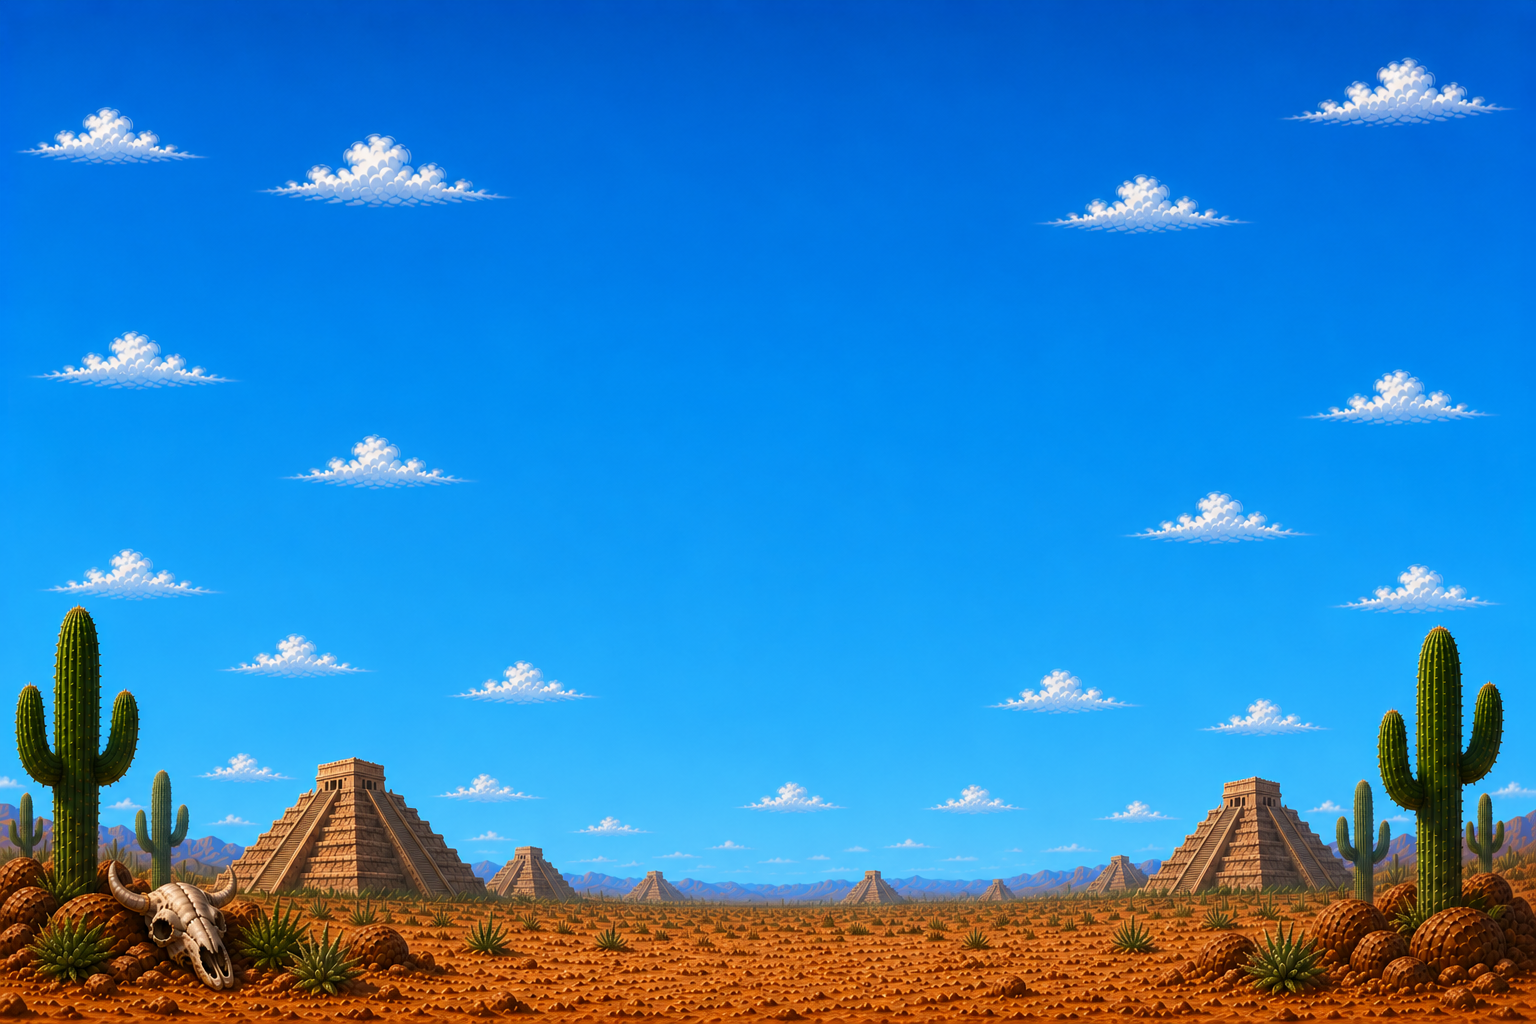
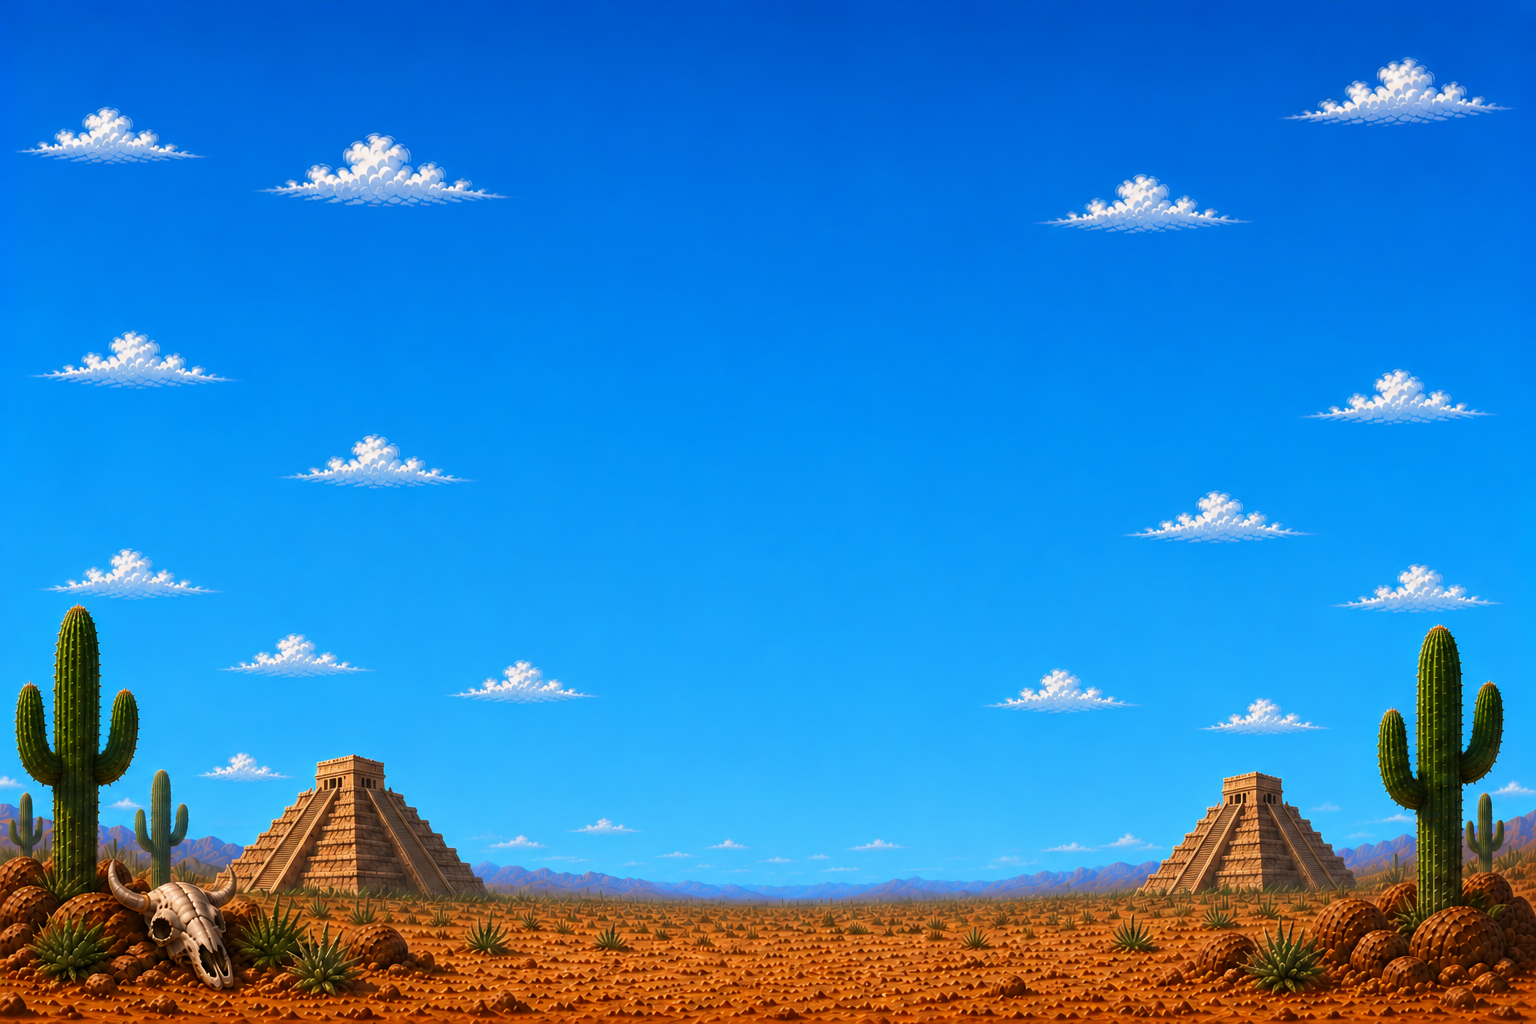
Game Over Screen added

diff --git a/javascript/levels/level1.js b/javascript/levels/level1.js
@@ -1,54 +1,75 @@
-const level1 = new Level(
-  [new Chicken(), new Chicken(), new Chicken(), new Smallchicken(), new Smallchicken(), new Smallchicken(), new Endboss()],
-  [
-    new Cloud(250, 0),
-    new Cloud(650, 1),
-    new Cloud(1050, 0),
-    new Cloud(1450, 1),
-    new Cloud(1850, 0),
-    new Cloud(2250, 0),
-    new Cloud(2650, 0),
-  ],
-  [
-    new BackgroundObject("img/5_background/layers/air.png", -720),
-    new BackgroundObject("img/5_background/layers/3_third_layer/2.png", -720),
-    new BackgroundObject("img/5_background/layers/2_second_layer/2.png", -720),
-    new BackgroundObject("img/5_background/layers/1_first_layer/2.png", -720),
-    new BackgroundObject("img/5_background/layers/air.png", 0),
-    new BackgroundObject("img/5_background/layers/3_third_layer/1.png", 0),
-    new BackgroundObject("img/5_background/layers/2_second_layer/1.png", 0),
-    new BackgroundObject("img/5_background/layers/1_first_layer/1.png", 0),
-    new BackgroundObject("img/5_background/layers/air.png", 720),
-    new BackgroundObject("img/5_background/layers/3_third_layer/2.png", 720),
-    new BackgroundObject("img/5_background/layers/2_second_layer/2.png", 720),
-    new BackgroundObject("img/5_background/layers/1_first_layer/2.png", 720),
-    new BackgroundObject("img/5_background/layers/air.png", 1440),
-    new BackgroundObject("img/5_background/layers/3_third_layer/1.png", 1440),
-    new BackgroundObject("img/5_background/layers/2_second_layer/1.png", 1440),
-    new BackgroundObject("img/5_background/layers/1_first_layer/1.png", 1440),
-    new BackgroundObject("img/5_background/layers/air.png", 2160),
-    new BackgroundObject("img/5_background/layers/3_third_layer/2.png", 2160),
-    new BackgroundObject("img/5_background/layers/2_second_layer/2.png", 2160),
-    new BackgroundObject("img/5_background/layers/1_first_layer/2.png", 2160),
-  ],
-  [
-    new Coin(400, 300),
-    new Coin(500, 200),
-    new Coin(550, 200),
-    new Coin(650, 300),
-    new Coin(1000, 100),
-    new Coin(1200, 300),
-    new Coin(1400, 300),
-  ],
-  [
-    new Bottle(300, 350),
-    new Bottle(750, 350),
-    new Bottle(800, 350),
-    new Bottle(900, 350),
-    new Bottle(1100, 350),
-    new Bottle(1200, 350),
-    new Bottle(1400, 350),
-    new Bottle(1500, 350),
-    new Bottle(1600, 350),
-  ],
-);
+let level1;
+
+function initLevel() {
+  level1 = new Level(
+    [
+      new Chicken(),
+      new Chicken(),
+      new Chicken(),
+      new Smallchicken(),
+      new Smallchicken(),
+      new Smallchicken(),
+      new Endboss(),
+    ],
+    [
+      new Cloud(250, 0),
+      new Cloud(650, 1),
+      new Cloud(1050, 0),
+      new Cloud(1450, 1),
+      new Cloud(1850, 0),
+      new Cloud(2250, 0),
+      new Cloud(2650, 0),
+    ],
+    [
+      new BackgroundObject("img/5_background/layers/air.png", -720),
+      new BackgroundObject("img/5_background/layers/3_third_layer/2.png", -720),
+      new BackgroundObject(
+        "img/5_background/layers/2_second_layer/2.png",
+        -720,
+      ),
+      new BackgroundObject("img/5_background/layers/1_first_layer/2.png", -720),
+      new BackgroundObject("img/5_background/layers/air.png", 0),
+      new BackgroundObject("img/5_background/layers/3_third_layer/1.png", 0),
+      new BackgroundObject("img/5_background/layers/2_second_layer/1.png", 0),
+      new BackgroundObject("img/5_background/layers/1_first_layer/1.png", 0),
+      new BackgroundObject("img/5_background/layers/air.png", 720),
+      new BackgroundObject("img/5_background/layers/3_third_layer/2.png", 720),
+      new BackgroundObject("img/5_background/layers/2_second_layer/2.png", 720),
+      new BackgroundObject("img/5_background/layers/1_first_layer/2.png", 720),
+      new BackgroundObject("img/5_background/layers/air.png", 1440),
+      new BackgroundObject("img/5_background/layers/3_third_layer/1.png", 1440),
+      new BackgroundObject(
+        "img/5_background/layers/2_second_layer/1.png",
+        1440,
+      ),
+      new BackgroundObject("img/5_background/layers/1_first_layer/1.png", 1440),
+      new BackgroundObject("img/5_background/layers/air.png", 2160),
+      new BackgroundObject("img/5_background/layers/3_third_layer/2.png", 2160),
+      new BackgroundObject(
+        "img/5_background/layers/2_second_layer/2.png",
+        2160,
+      ),
+      new BackgroundObject("img/5_background/layers/1_first_layer/2.png", 2160),
+    ],
+    [
+      new Coin(400, 300),
+      new Coin(500, 200),
+      new Coin(550, 200),
+      new Coin(650, 300),
+      new Coin(1000, 100),
+      new Coin(1200, 300),
+      new Coin(1400, 300),
+    ],
+    [
+      new Bottle(300, 350),
+      new Bottle(750, 350),
+      new Bottle(800, 350),
+      new Bottle(900, 350),
+      new Bottle(1100, 350),
+      new Bottle(1200, 350),
+      new Bottle(1400, 350),
+      new Bottle(1500, 350),
+      new Bottle(1600, 350),
+    ],
+  );
+}

diff --git a/classes/world.class.js b/classes/world.class.js
@@ -10,6 +10,7 @@ class World {
   statusBarBottles = new StatusBarBottles();
   throwableObjects = [];
   bottleThrown = false;
+  gameOverShown = false;
 
   constructor(canvas, keyboard) {
     this.ctx = canvas.getContext("2d"); // asks canvas for its 2D rendering context / with this it's possible to draw on the screen
@@ -31,6 +32,7 @@ class World {
     setInterval(() => {
       this.checkCollisions();
       this.checkThrowObjects();
+      this.checkGameOver();
     }, 50);
   }
 
@@ -133,9 +135,9 @@ class World {
 
   draw() {
     this.ctx.clearRect(0, 0, this.canvas.width, this.canvas.height);
-    this.drawBackground(); 
-    this.drawGameObjects(); 
-    this.drawStatusBars(); 
+    this.drawBackground();
+    this.drawGameObjects();
+    this.drawStatusBars();
     requestAnimationFrame(() => this.draw());
   }
 
@@ -192,5 +194,14 @@ class World {
   flipImageBack(movableObject) {
     movableObject.x = movableObject.x * -1;
     this.ctx.restore();
+  }
+
+  checkGameOver() {
+    if (this.character.isDead() && !this.gameOverShown) {
+      this.gameOverShown = true; 
+      setTimeout(() => {
+        showGameOver();
+      }, 1000);
+    }
   }
 }

diff --git a/index.html b/index.html
@@ -6,6 +6,7 @@
     <link rel="stylesheet" href="style.css" />
     <link rel="stylesheet" href="./fonts/fonts.css" />
     <link rel="stylesheet" href="./CSS/startscreen.css">
+    <link rel="stylesheet" href="./CSS/gameover.css">
     <link rel="shortcut icon" href="./img/pepe.png">
     <title>El pollo loco</title>
     <script src="./classes/drawable-object.class.js"></script>
@@ -41,6 +42,10 @@
         <div class="start-screen" id="startScreen">
          <img src="./img/9_intro_outro_screens/start/startscreen_1.png" alt="Start Screen">
           <button class="start-btn" onclick="startGame()">Start Game</button>
+        </div>
+        <div class="game-over-screen" id="gameOverScreen"> 
+         <img src="./img/9_intro_outro_screens/game_over/game over.png" alt="Game Over">
+          <button class="start-btn" onclick="restartGame()">Play Again</button>
         </div>
       </div>
       <section class="controls-section">

diff --git a/javascript/game.js b/javascript/game.js
@@ -4,6 +4,7 @@ let keyboard = new Keyboard();
 
 function startGame() {
   document.getElementById('startScreen').style.display = 'none'; 
+  initLevel();
   init(); 
 }
 
@@ -59,5 +60,15 @@ document.addEventListener("keyup", (event) => {
     keyboard.D = false;
   }
 });
+
+function showGameOver() {
+  document.getElementById('gameOverScreen').style.display = 'block';
+}
+
+function restartGame() {
+  document.getElementById('gameOverScreen').style.display = 'none';
+  initLevel();
+  init();
+}
 
 

diff --git a/CSS/gameover.css b/CSS/gameover.css
@@ -1,0 +1,14 @@
+.game-over-screen {
+  position: absolute;
+  top: 0;
+  left: 0;
+  width: 100%;
+  height: 100%;
+  display: none; 
+}
+
+.game-over-screen img {
+  width: 100%;
+  height: 100%;
+  object-fit: cover;
+}

diff --git a/classes/character.class.js b/classes/character.class.js
@@ -109,6 +109,7 @@ class Character extends MovableObject {
   }
 
   movementCharacter() {
+    if (this.isDead()) return;
     if (this.isMovingRight()) {
       this.moveRight();
     }
